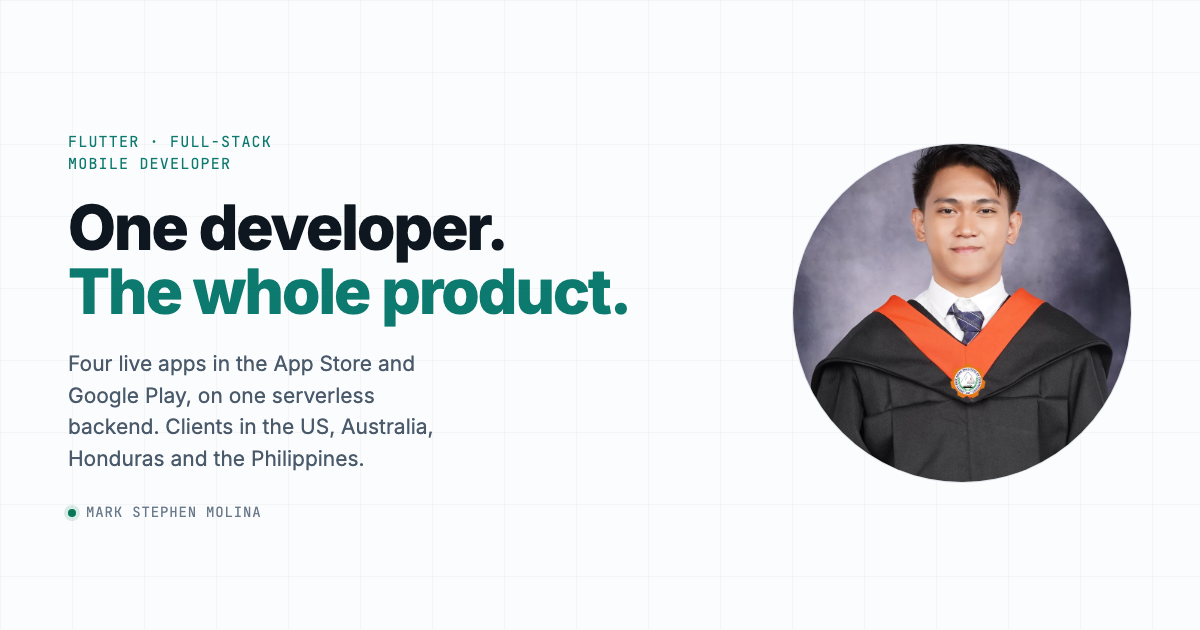
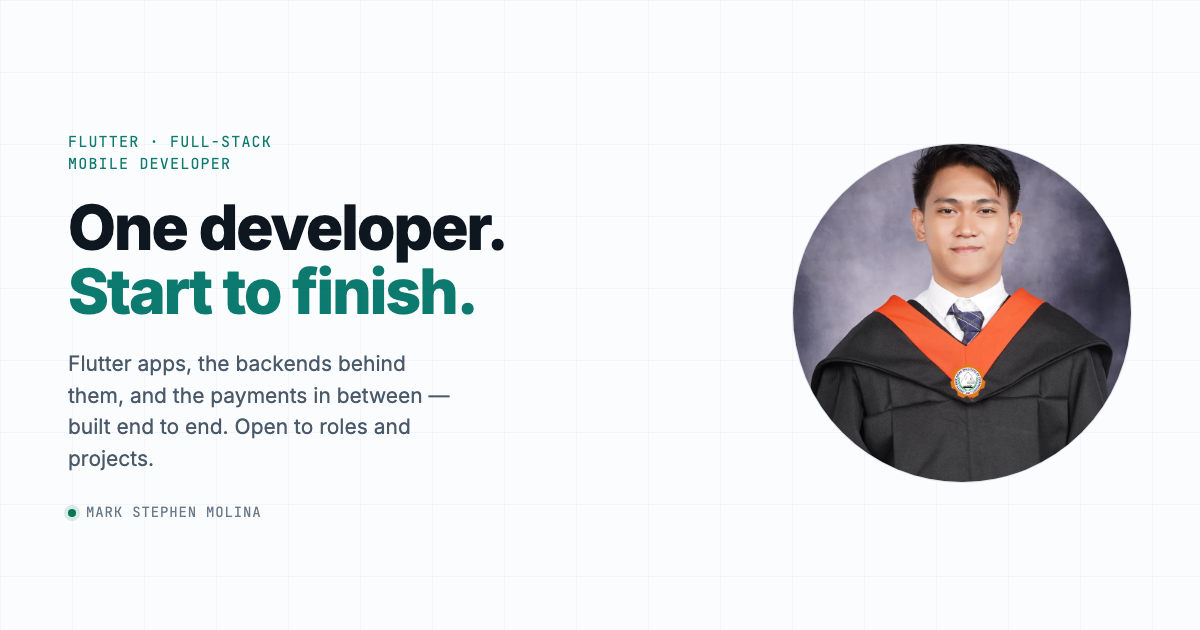
Headline: "Start to finish" instead of "The whole product"
"One developer. The whole product." asked the reader to work out what
product meant — his? theirs? a category? The claim was scope, so say
scope: one developer, start to finish.

Regenerated assets/img/og-image.png, which bakes the headline in. The
card's body text was dated in the same way the hero intro was ("Four
live apps... Clients in the US, Australia, Honduras and the
Philippines"), and being inside an image it is the copy least likely to
get noticed when it goes stale, so it now matches the evergreen wording.

Claude-Session: https://claude.ai/code/session_018c5y1xfzH2PhXBQtNGFDzz

Changed region(s): [[0.0617, 0.5429, 0.37, 0.754], [0.0617, 0.4222, 0.5242, 0.5127]]

diff --git a/tool/og-card.html b/tool/og-card.html
@@ -108,10 +108,10 @@
 
   <div>
     <p class="eyebrow">Flutter · Full-stack mobile developer</p>
-    <h1>One developer. <em>The whole product.</em></h1>
+    <h1>One developer. <em>Start to finish.</em></h1>
     <p>
-      Four live apps in the App&nbsp;Store and Google&nbsp;Play, on one serverless backend.
-      Clients in the US, Australia, Honduras and the Philippines.
+      Flutter apps, the backends behind them, and the payments in between —
+      built end to end. Open to roles and projects.
     </p>
     <p class="live"><span class="dot"></span> Mark Stephen Molina</p>
   </div>

diff --git a/index.html b/index.html
@@ -191,7 +191,7 @@
       <div>
         <p class="eyebrow">Flutter · Full-stack mobile developer</p>
 
-        <h1 class="hero__title"><span>One developer.</span> <em>The whole product.</em></h1>
+        <h1 class="hero__title"><span>One developer.</span> <em>Start to finish.</em></h1>
 
         <p class="hero__lead">
           Looking for a Flutter developer, or have an app that needs building? That’s what I
